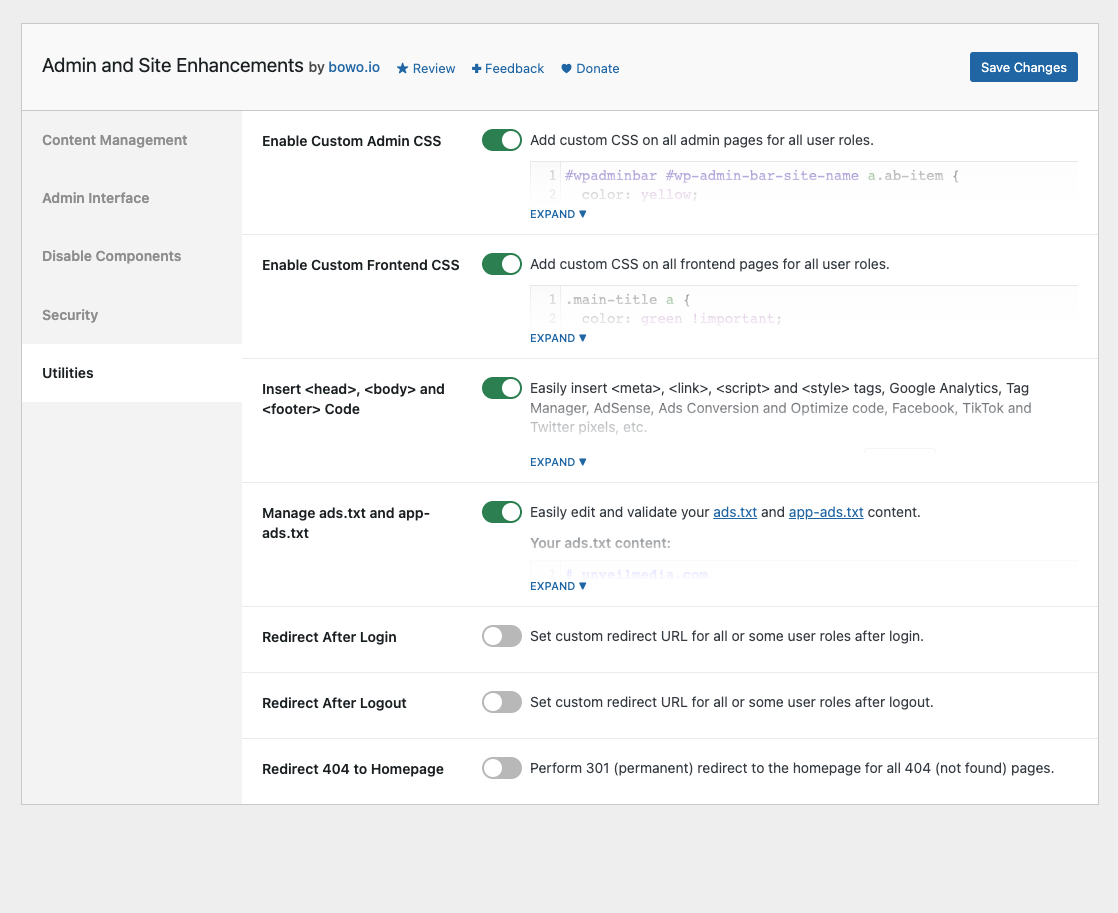
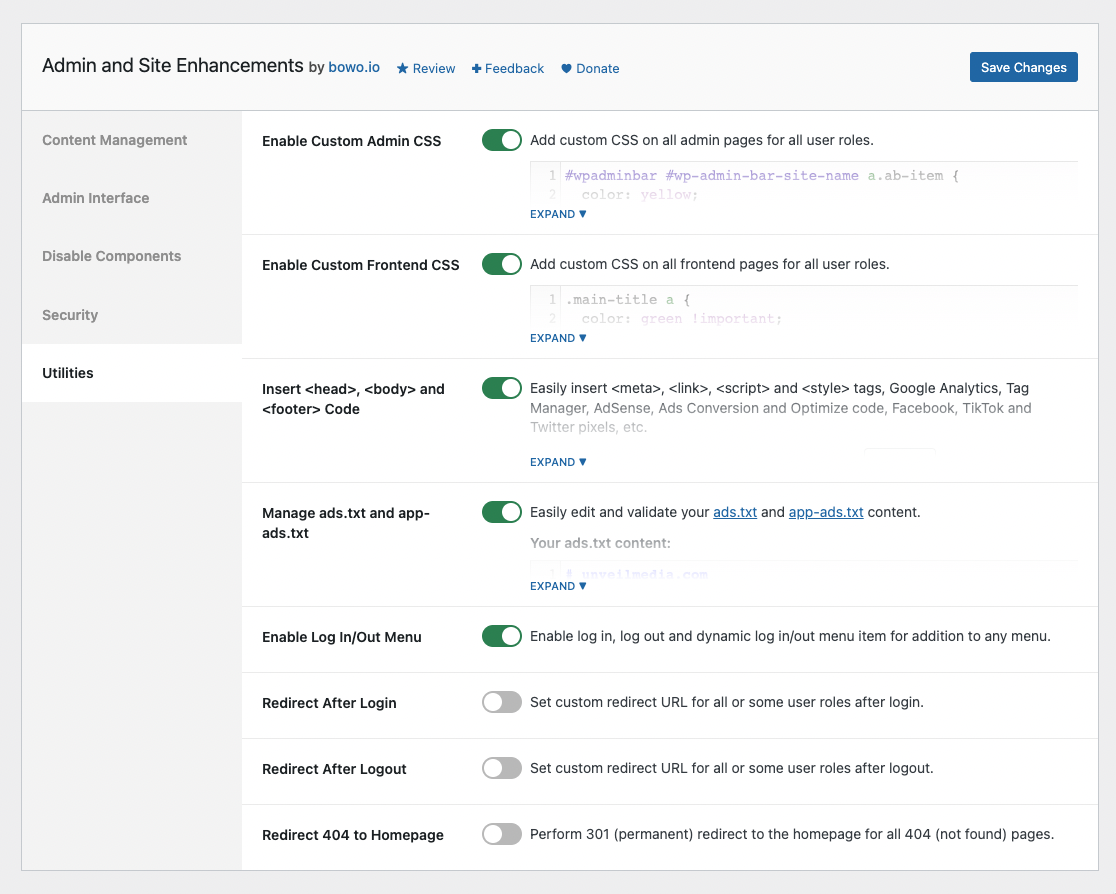
v3.4.0 release

diff --git a/admin-site-enhancements.php b/admin-site-enhancements.php
@@ -4,7 +4,7 @@
  * Plugin Name:       Admin and Site Enhancements
  * Plugin URI:        https://wordpress.org/plugins/admin-site-enhancements/
  * Description:       Easily enable enhancements and features that usually require multiple plugins.
- * Version:           3.3.0
+ * Version:           3.4.0
  * Author:            Bowo
  * Author URI:        https://bowo.io
  * License:           GPL-2.0+
@@ -18,7 +18,7 @@ if ( ! defined( 'ABSPATH' ) ) {
 	exit;
 }
 
-define( 'ASENHA_VERSION', '3.3.0' );
+define( 'ASENHA_VERSION', '3.4.0' );
 define( 'ASENHA_ID', 'asenha' );
 define( 'ASENHA_SLUG', 'admin-site-enhancements' );
 define( 'ASENHA_SLUG_U', 'admin_site_enhancements' );

diff --git a/README.md b/README.md
@@ -5,7 +5,7 @@ Donate link: https://paypal.me/qriouslad
 Tags: enhancements, tweaks, optimizations, tools  
 Requires at least: 4.6  
 Tested up to: 6.1.1  
-Stable tag: 3.3.0  
+Stable tag: 3.4.0  
 Requires PHP: 5.6  
 License: GPLv2 or later  
 License URI: http://www.gnu.org/licenses/gpl-2.0.html
@@ -66,6 +66,7 @@ Admin and Site Enhancements helps you to easily enhance various admin workflows 
 * **Enable Custom Frontend CSS**. Add custom CSS on all frontend pages for all user roles.
 * **Insert &lt;head&gt;, &lt;body&gt; and &lt;footer&gt; Code**. Easily edit and validate your ads.txt and app-ads.txt content.
 * **Manage ads.txt and app-ads.txt**. Easily insert &lt;meta&gt;, &lt;link&gt;, &lt;script&gt; and &lt;style&gt; tags, Google Analytics, Tag Manager, AdSense, Ads Conversion and Optimize code, Facebook, TikTok and Twitter pixels, etc.
+* **Enable Log In/Out Menu**. Enable log in, log out and dynamic log in/out menu item for addition to any menu.
 * **Redirect After Login / Logout**. Set custom redirect URL for all or some user roles after login / logout.
 * **Redirect 404 to Homepage**. Perform 301 (permanent) redirect to the homepage for all 404 (not found) pages.
 
@@ -107,10 +108,14 @@ Hoping that this is useful in reducing the number of plugins we install the firs
 
 ## Changelog
 
+### 3.4.0 (2022.12.16)
+
+* **[ADDED] Utilities >> Enable Log In/Out Menu**. Enable log in, log out and dynamic log in/out menu item for addition to any menu. Depending on the user's logged-in status, the menu item will show up, disappear or change.
+
 ### 3.3.0 (2022.12.12)
 
-* **[ADDED] Utilities >> Manage ads.txt and app-ads.txt**. Easily insert &lt;meta&gt;, &lt;link&gt;, &lt;script&gt; and &lt;style&gt; tags, Google Analytics, Tag Manager, AdSense, Ads Conversion and Optimize code, Facebook, TikTok and Twitter pixels, etc.
-* **[ADDED] Utilities >> Manage ads.txt and app-ads.txt** is now a single settings field.
+* **[ADDED] Utilities >> Insert &lt;head&gt;, &lt;body&gt; and &lt;footer&gt; Code**. Easily insert &lt;meta&gt;, &lt;link&gt;, &lt;script&gt; and &lt;style&gt; tags, Google Analytics, Tag Manager, AdSense, Ads Conversion and Optimize code, Facebook, TikTok and Twitter pixels, etc.
+* **[CHANGED] Utilities >> Manage ads.txt and app-ads.txt** is now a single settings field.
 
 ### 3.2.0 (2022.12.12)
 
